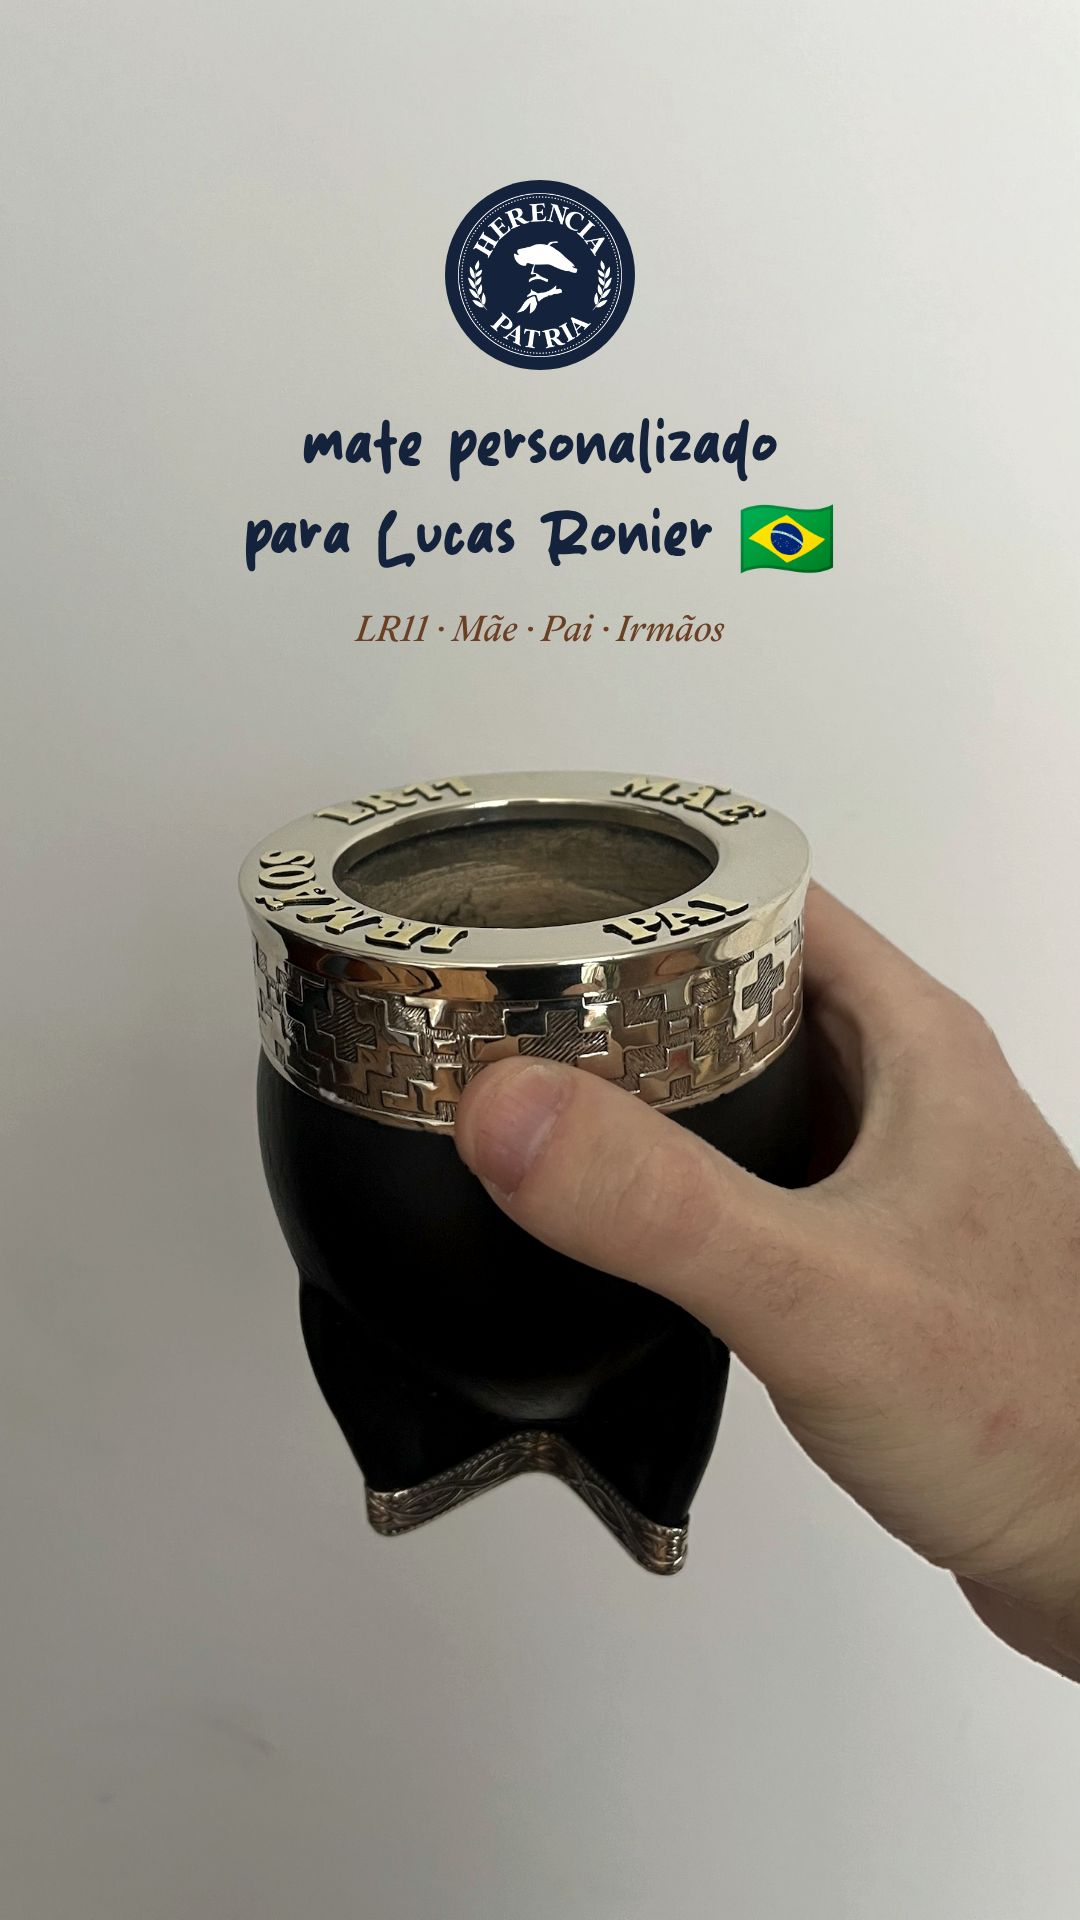
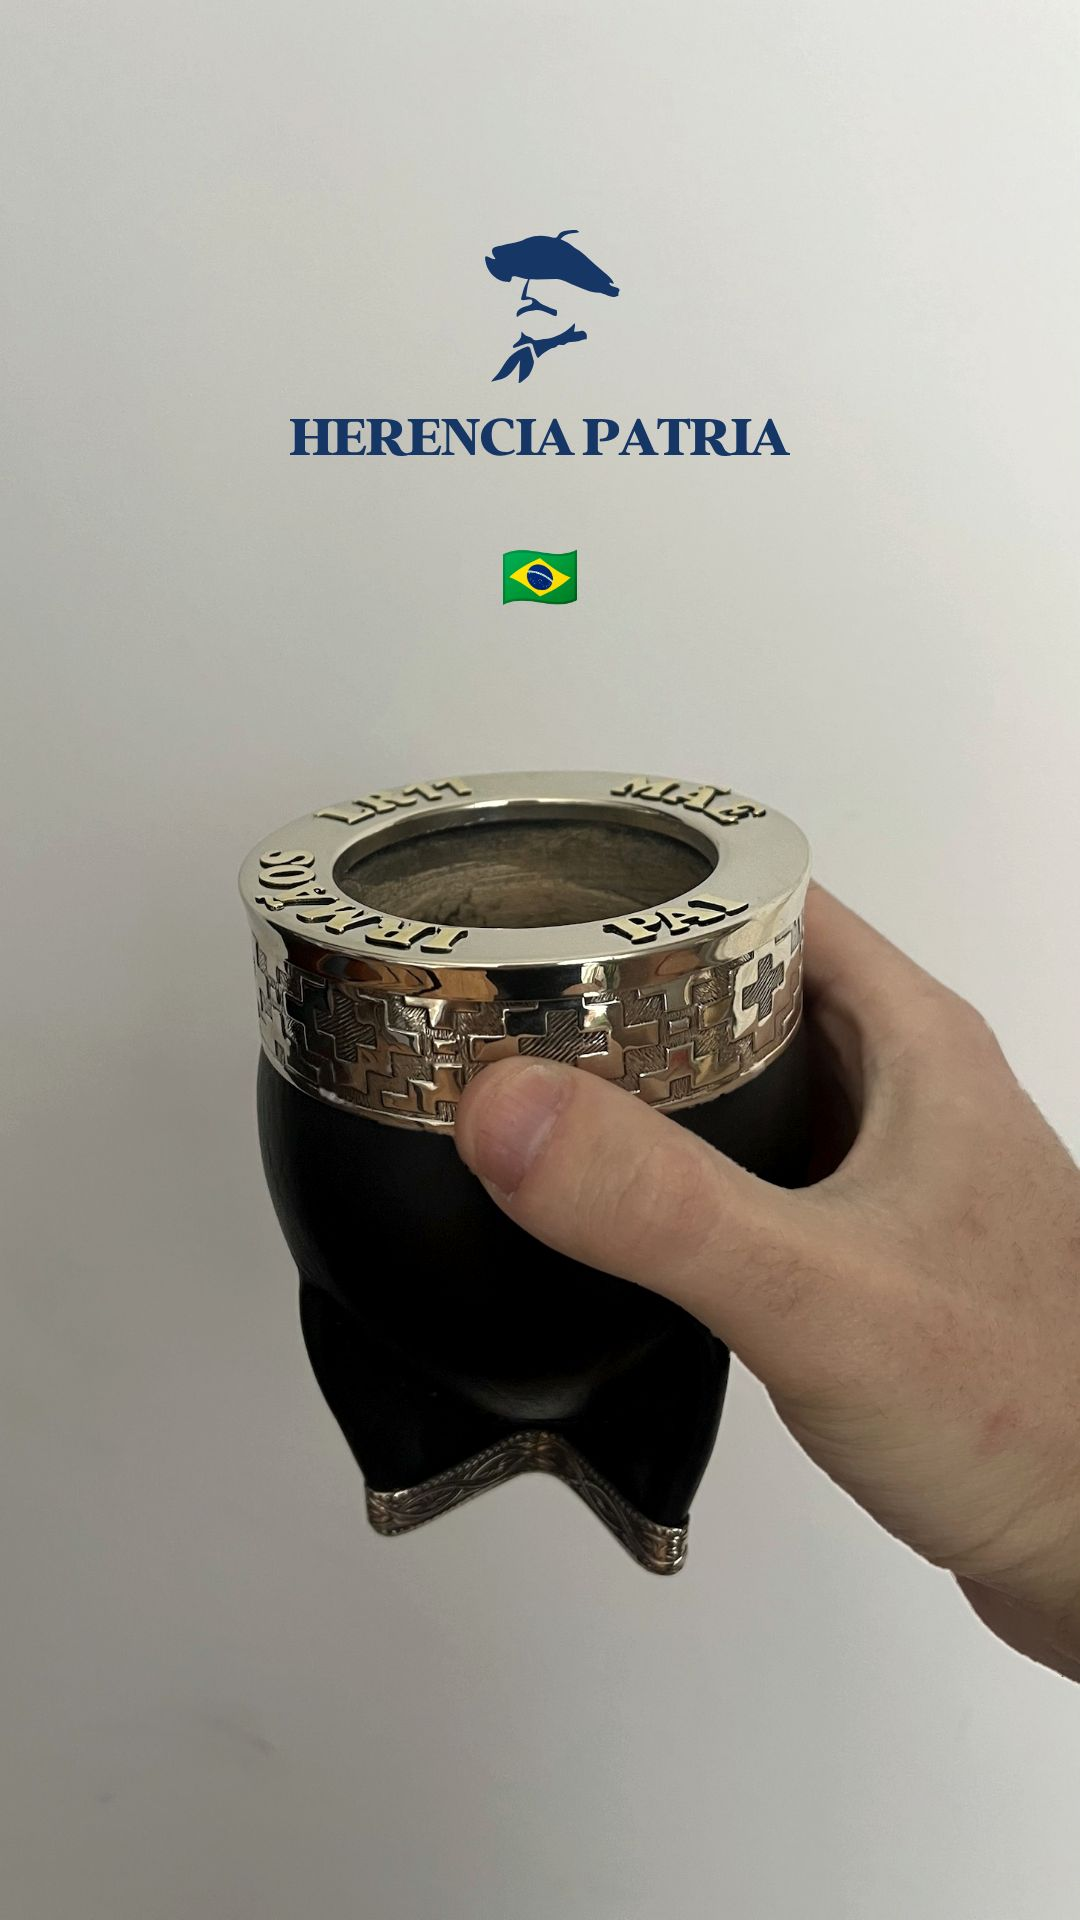
Historia Lucas Ronier al estilo de las historias de encargos
Logo completo en azul (Recurso 1.svg del Drive de la marca), la bandera y
lugar para la mención, que se agrega en Instagram con el sticker. La
versión con el sello y la dedicatoria queda como HP-Historia-Lucas-Ronier-Sello.

Claude-Session: https://claude.ai/code/session_012H3xPSmbqKoMmc2aK7okNH

Changed region(s): [[0.2139, 0.0938, 0.7944, 0.3438]]

diff --git a/src/HerenciaPatria/HistoriaDedicada.tsx b/src/HerenciaPatria/HistoriaDedicada.tsx
@@ -2,18 +2,24 @@ import { AbsoluteFill, Img, staticFile } from "remotion";
 import { colors, fonts } from "./brand";
 
 // Historia de Instagram (1080x1920) para un mate hecho por encargo: la foto
-// real tal cual (sólo encuadrada y con un ajuste de luz suave), arriba el
-// sello sobre un disco azul y la dedicatoria en la letra a mano, en azul
-// para que se lea sobre una pared clara, y abajo de ella lo que dice el
-// grabado de la virola.
+// real tal cual (sólo encuadrada y con un ajuste de luz suave) y arriba, sobre
+// la pared, la marca y para quién es. Dos estilos:
+// - "azul": el logo completo en azul (pájaro y HERENCIA PATRIA), la bandera y
+//   debajo el lugar libre para la mención (@), que se pone en Instagram con el
+//   sticker de mención para que se pueda tocar. Como las historias de los
+//   encargos ya publicadas.
+// - "sello": el sello sobre un disco azul, la dedicatoria en la letra a mano y
+//   lo que dice el grabado de la virola.
 
 export const HistoriaDedicada: React.FC<{
   readonly src: string;
-  readonly frase: string[];
-  readonly grabado: string;
+  readonly estilo?: "azul" | "sello";
+  readonly bandera?: string;
+  readonly frase?: string[];
+  readonly grabado?: string;
   // Desplazamiento vertical de la foto (px del cuadro), para dar aire arriba.
   readonly bajar?: number;
-}> = ({ src, frase, grabado, bajar = 0 }) => {
+}> = ({ src, estilo = "azul", bandera, frase = [], grabado, bajar = 0 }) => {
   const sello = 190;
   return (
     <AbsoluteFill style={{ backgroundColor: colors.crema }}>
@@ -34,7 +40,7 @@ export const HistoriaDedicada: React.FC<{
         style={{
           position: "absolute",
           // Lo más arriba posible sin meterse bajo el nombre del perfil.
-          top: 180,
+          top: estilo === "azul" ? 230 : 180,
           left: 70,
           right: 70,
           display: "flex",
@@ -43,48 +49,71 @@ export const HistoriaDedicada: React.FC<{
           textAlign: "center",
         }}
       >
-        <div
-          style={{
-            width: sello,
-            height: sello,
-            borderRadius: "50%",
-            background: colors.azul,
-            display: "flex",
-            alignItems: "center",
-            justifyContent: "center",
-          }}
-        >
+        {estilo === "azul" ? (
           <Img
-            src={staticFile("logo-herencia-patria.png")}
-            style={{ width: sello * 0.86, height: sello * 0.86 }}
+            src={staticFile("logos/herencia-patria-azul.svg")}
+            style={{ width: 500 }}
           />
-        </div>
-        <div
-          style={{
-            marginTop: 34,
-            fontFamily: `${fonts.mano}, "Noto Color Emoji"`,
-            fontSize: 80,
-            lineHeight: 1.12,
-            color: colors.azul,
-          }}
-        >
-          {frase.map((l) => (
-            <div key={l}>{l}</div>
-          ))}
-        </div>
-        <div
-          style={{
-            marginTop: 22,
-            fontFamily: fonts.serif,
-            fontStyle: "italic",
-            fontSize: 40,
-            // "LR11" con números a la altura de las mayúsculas.
-            fontVariantNumeric: "lining-nums",
-            color: colors.madera,
-          }}
-        >
-          {grabado}
-        </div>
+        ) : (
+          <div
+            style={{
+              width: sello,
+              height: sello,
+              borderRadius: "50%",
+              background: colors.azul,
+              display: "flex",
+              alignItems: "center",
+              justifyContent: "center",
+            }}
+          >
+            <Img
+              src={staticFile("logo-herencia-patria.png")}
+              style={{ width: sello * 0.86, height: sello * 0.86 }}
+            />
+          </div>
+        )}
+        {bandera ? (
+          <div
+            style={{
+              marginTop: estilo === "azul" ? 90 : 34,
+              fontFamily: '"Noto Color Emoji"',
+              fontSize: 64,
+              lineHeight: 1,
+            }}
+          >
+            {bandera}
+          </div>
+        ) : null}
+        {frase.length > 0 ? (
+          <div
+            style={{
+              marginTop: 34,
+              fontFamily: `${fonts.mano}, "Noto Color Emoji"`,
+              fontSize: 80,
+              lineHeight: 1.12,
+              color: colors.azul,
+            }}
+          >
+            {frase.map((l) => (
+              <div key={l}>{l}</div>
+            ))}
+          </div>
+        ) : null}
+        {grabado ? (
+          <div
+            style={{
+              marginTop: 22,
+              fontFamily: fonts.serif,
+              fontStyle: "italic",
+              fontSize: 40,
+              // "LR11" con números a la altura de las mayúsculas.
+              fontVariantNumeric: "lining-nums",
+              color: colors.madera,
+            }}
+          >
+            {grabado}
+          </div>
+        ) : null}
       </div>
     </AbsoluteFill>
   );

diff --git a/src/Root.tsx b/src/Root.tsx
@@ -382,9 +382,22 @@ export const RemotionRoot: React.FC = () => {
         height={1920}
         defaultProps={{
           src: "mate-lucas-ronier.jpg",
+          estilo: "azul" as const,
+          bandera: "🇧🇷",
+        }}
+      />
+      {/* Variante con el sello y la dedicatoria escrita.
+          npx remotion still HP-Historia-Lucas-Ronier-Sello entregas/historia-lucas-ronier-sello.jpg */}
+      <Still
+        id="HP-Historia-Lucas-Ronier-Sello"
+        component={HistoriaDedicada}
+        width={1080}
+        height={1920}
+        defaultProps={{
+          src: "mate-lucas-ronier.jpg",
+          estilo: "sello" as const,
           frase: ["mate personalizado", "para Lucas Ronier 🇧🇷"],
           grabado: "LR11 · Mãe · Pai · Irmãos",
-          bajar: 0,
         }}
       />
     </>
